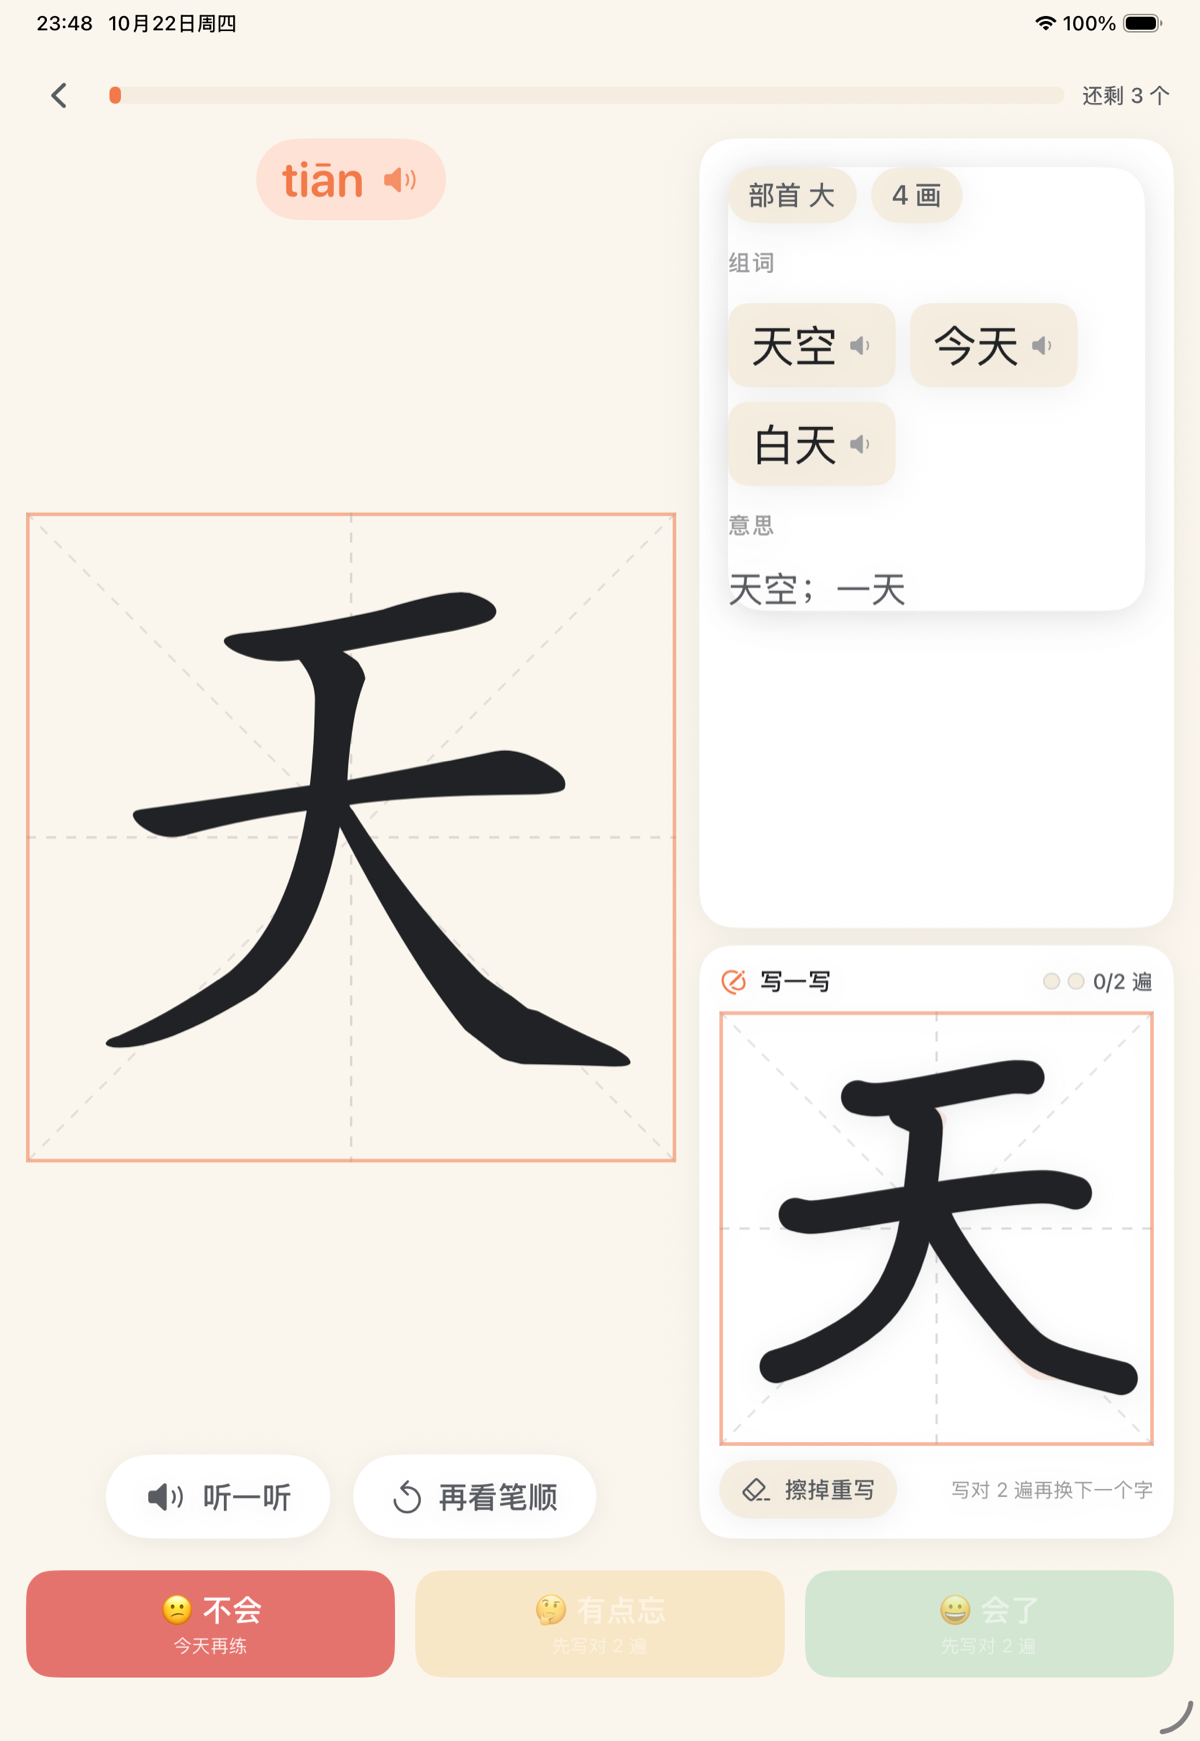
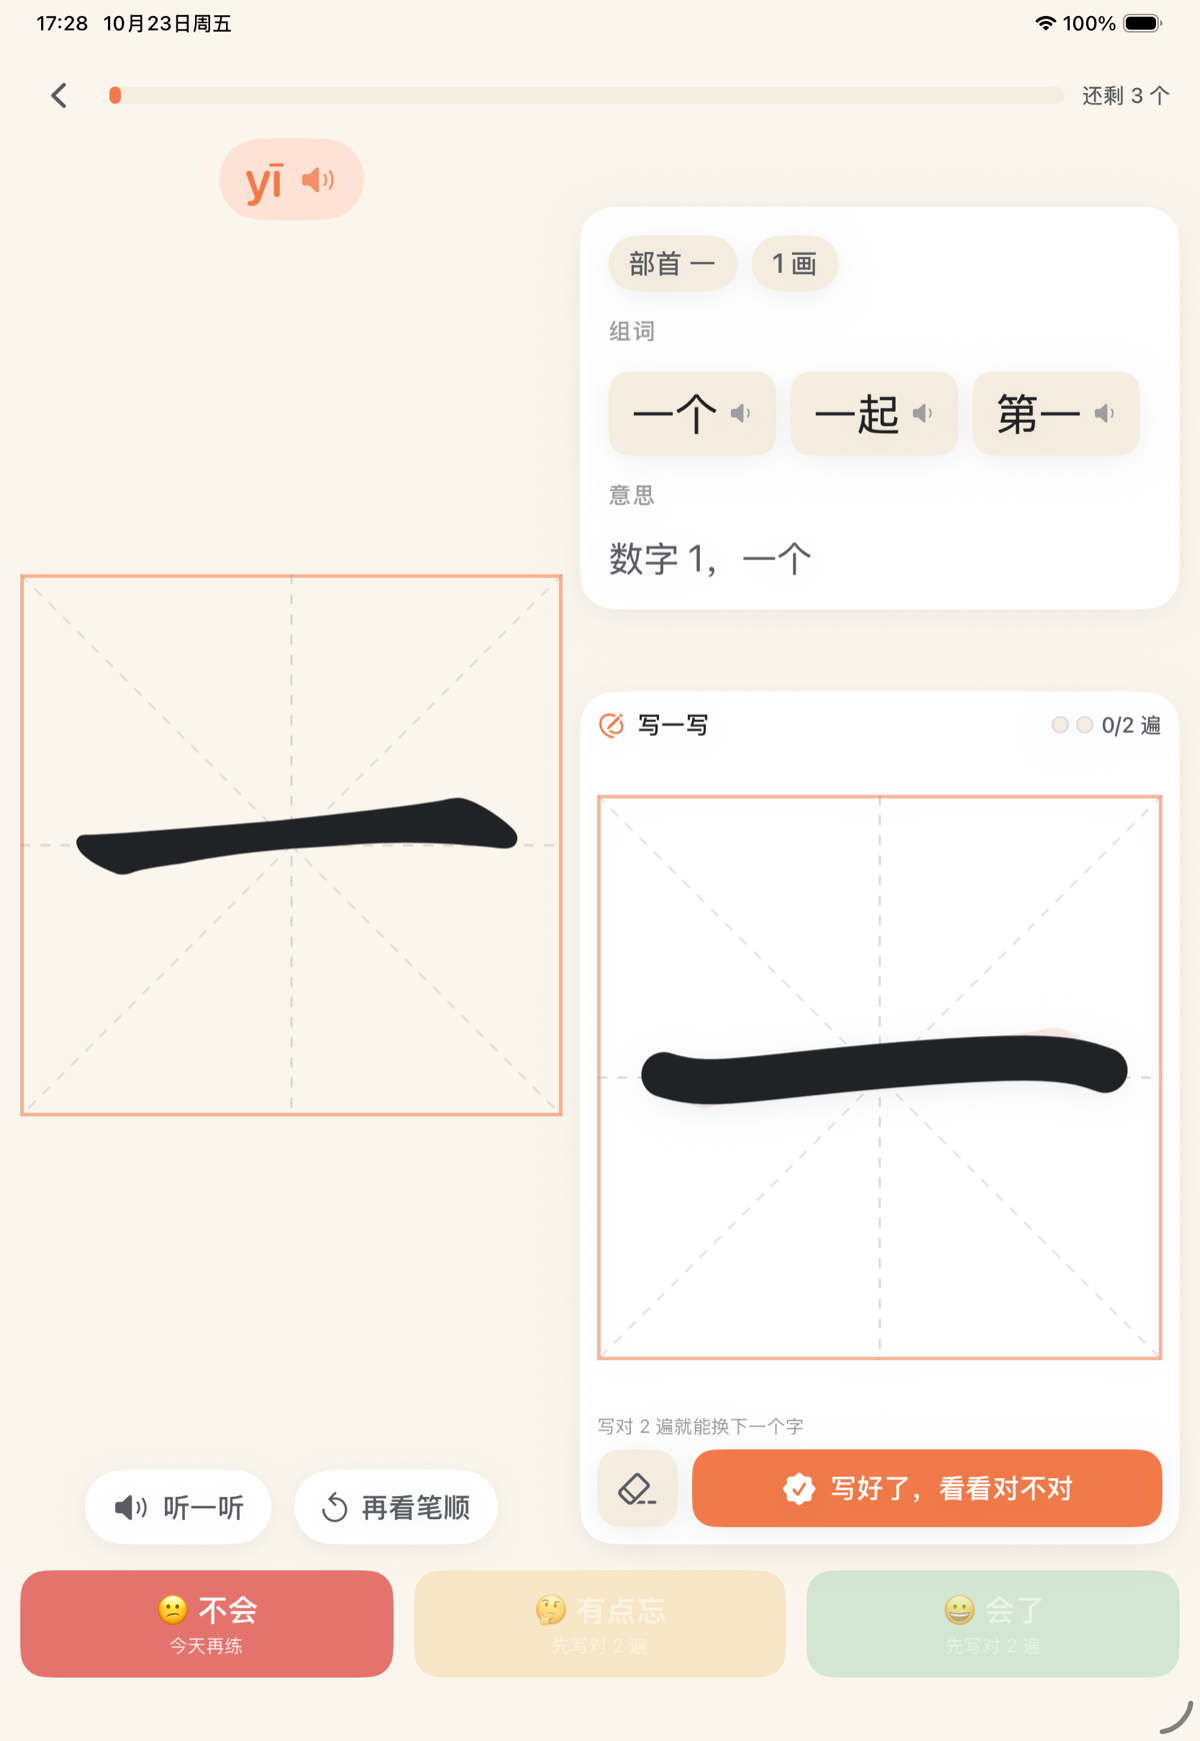
release: HanziKid-0.9.0(10)-unsigned

diff --git a/HanziKid/Features/Study/HandwritingPad.swift b/HanziKid/Features/Study/HandwritingPad.swift
@@ -22,29 +22,28 @@ struct HandwritingPad: View {
     @State private var clearToken = 0
     @State private var verdict: HandwritingResult?
     @State private var attempts = 0
-    @State private var checkTask: Task<Void, Never>?
     @State private var celebrating = false
+    @State private var toast: String?
     @State private var padSide: CGFloat = 300
 
     private var strokeData: HanziStrokeData { StrokeLibrary.shared.data(for: hanzi) }
     private var isComplete: Bool { required > 0 && done >= required }
+    /// 有没有写出东西（决定「写好了」按钮能不能点）
+    private var hasInk: Bool { !drawing.strokes.isEmpty }
+    private var canCheck: Bool { hasInk && !isLocked && !celebrating }
 
     var body: some View {
-        VStack(alignment: .leading, spacing: 10) {
+        VStack(alignment: .leading, spacing: 8) {
             header
             pad
             footer
         }
-        .padding(14)
-        .background(Theme.card, in: RoundedRectangle(cornerRadius: 22, style: .continuous))
-        .shadow(color: Theme.shadow, radius: 10, y: 3)
+        .padding(12)
+        .background(Theme.card, in: RoundedRectangle(cornerRadius: 24, style: .continuous))
+        .shadow(color: Theme.shadow, radius: 12, y: 4)
         .onChange(of: hanzi) { _ in
             reset()
         }
-        .onChange(of: isLocked) { locked in
-            if locked { cancelPending() }
-        }
-        .onDisappear { checkTask?.cancel() }
         .task(id: TaskKey(hanzi: hanzi, locked: isLocked)) {
             await runDemoInkIfNeeded()
         }
@@ -108,8 +107,8 @@ struct HandwritingPad: View {
 
                 if celebrating {
                     celebrateOverlay
-                } else if let verdict, !verdict.isPass, attempts > 0 {
-                    retryHint(verdict)
+                } else if let toast {
+                    hintBanner(toast)
                 }
             }
             .frame(width: side, height: side)
@@ -118,7 +117,7 @@ struct HandwritingPad: View {
             .onChange(of: side) { newSide in padSide = newSide }
         }
         .aspectRatio(1, contentMode: .fit)
-        .frame(maxWidth: .infinity)
+        .frame(maxWidth: .infinity, maxHeight: .infinity)
     }
 
     private var lockedOverlay: some View {
@@ -155,19 +154,20 @@ struct HandwritingPad: View {
         .allowsHitTesting(false)
     }
 
-    private func retryHint(_ result: HandwritingResult) -> some View {
+    /// 判定没通过时的提示（写在板子下方，不挡笔迹）
+    private func hintBanner(_ text: String) -> some View {
         VStack {
             Spacer()
             HStack(spacing: 8) {
                 Image(systemName: "arrow.uturn.left.circle.fill")
-                Text(result.cover < 0.5 ? "笔画还没写全，再写一次" : "和范字不太像，再写一次")
+                Text(text)
             }
-            .font(.system(size: 16, weight: .medium))
+            .font(.system(size: 17, weight: .medium))
             .foregroundStyle(.white)
-            .padding(.horizontal, 14)
-            .padding(.vertical, 9)
-            .background(Theme.again.opacity(0.92), in: Capsule())
-            .padding(.bottom, 10)
+            .padding(.horizontal, 16)
+            .padding(.vertical, 10)
+            .background(Theme.again.opacity(0.94), in: Capsule())
+            .padding(.bottom, 12)
         }
         .allowsHitTesting(false)
     }
@@ -175,62 +175,66 @@ struct HandwritingPad: View {
     // MARK: 底部按钮 + 提示
 
     private var footer: some View {
-        HStack(spacing: 10) {
-            Button {
-                clear()
-            } label: {
-                Label("擦掉重写", systemImage: "eraser.line.dashed")
-                    .font(.system(size: 16, weight: .medium))
-                    .foregroundStyle(Theme.inkSoft)
-                    .padding(.horizontal, 14)
-                    .padding(.vertical, 9)
-                    .background(Theme.paperDeep, in: Capsule())
-            }
-            .buttonStyle(.plain)
-            .disabled(isLocked || celebrating)
-
-            Spacer(minLength: 4)
-
+        VStack(spacing: 8) {
             if required > 0 {
-                Text(isComplete ? "可以换下一个字了" : "写对 \(max(0, required - done)) 遍再换下一个字")
-                    .font(.system(size: 14))
-                    .lineLimit(1)
-                    .minimumScaleFactor(0.8)
+                Text(isComplete ? "这个字写好啦，可以换下一个" : "写对 \(max(0, required - done)) 遍就能换下一个字")
+                    .font(.system(size: 13))
                     .foregroundStyle(isComplete ? Theme.good : Theme.inkFaint)
-            } else {
-                Text("写对了会打勾")
-                    .font(.system(size: 14))
-                    .foregroundStyle(Theme.inkFaint)
+                    .frame(maxWidth: .infinity, alignment: .leading)
+            }
+
+            HStack(spacing: 10) {
+                Button {
+                    clear()
+                } label: {
+                    Image(systemName: "eraser.line.dashed")
+                        .font(.system(size: 22, weight: .medium))
+                        .foregroundStyle(Theme.inkSoft)
+                        .frame(width: 56, height: 54)
+                        .background(Theme.paperDeep, in: RoundedRectangle(cornerRadius: 16, style: .continuous))
+                }
+                .buttonStyle(.plain)
+                .disabled(isLocked || celebrating)
+                .accessibilityLabel("擦掉重写")
+
+                Button {
+                    check()
+                } label: {
+                    HStack(spacing: 8) {
+                        Image(systemName: canCheck ? "checkmark.seal.fill" : "hand.draw.fill")
+                            .font(.system(size: 20, weight: .semibold))
+                        Text(canCheck ? "写好了，看看对不对" : "先写，再点这里")
+                            .font(.system(size: 19, weight: .semibold))
+                    }
+                    .foregroundStyle(.white)
+                    .frame(maxWidth: .infinity)
+                    .frame(height: 54)
+                    .background(canCheck ? Theme.accent : Theme.inkFaint.opacity(0.4),
+                                in: RoundedRectangle(cornerRadius: 16, style: .continuous))
+                }
+                .buttonStyle(.plain)
+                .disabled(!canCheck)
             }
         }
     }
 
     // MARK: 识别
 
+    /// 笔迹变化只记录，不自动判定 —— 必须由小朋友点「写好了」才认
     private func handleDrawingChanged(_ newDrawing: PKDrawing) {
         drawing = newDrawing
         guard !isLocked, !celebrating else { return }
-        verdict = nil
-        scheduleCheck()
+        if verdict != nil { verdict = nil }
     }
 
-    private func scheduleCheck() {
-        checkTask?.cancel()
-        checkTask = Task { @MainActor in
-            // 停笔 0.9 秒再判，避免孩子一笔一笔写的过程中乱判
-            try? await Task.sleep(nanoseconds: 900_000_000)
-            guard !Task.isCancelled else { return }
-            evaluate()
-        }
-    }
-
-    private func cancelPending() {
-        checkTask?.cancel()
-        checkTask = nil
+    /// 「写好了」按钮
+    private func check() {
+        guard canCheck else { return }
+        evaluate()
     }
 
     private func evaluate() {
-        guard !isLocked, !celebrating else { return }
+        guard canCheck else { return }
         let sample = makeSample()
         // 至少要有两笔中的一个有效笔画才判定（单笔画字如「一」点数本来就不多）
         guard sample.strokes.contains(where: { $0.count >= 2 }) else { return }
@@ -249,6 +253,11 @@ struct HandwritingPad: View {
             pass(praise: true)
         } else {
             UINotificationFeedbackGenerator().notificationOccurred(.warning)
+            if result.cover < 0.5 {
+                toast = "笔画还没写全，再补几笔"
+            } else {
+                toast = "和范字不太像，擦掉重写一次"
+            }
         }
     }
 
@@ -285,8 +294,8 @@ struct HandwritingPad: View {
     }
 
     private func clear() {
-        cancelPending()
         verdict = nil
+        toast = nil
         drawing = PKDrawing()
         clearToken += 1
     }
@@ -332,7 +341,9 @@ struct HandwritingPad: View {
                 pkStrokes.append(PKStroke(ink: PKInk(.pen, color: UIColor(Theme.ink)), path: path))
             }
             handleDrawingChanged(PKDrawing(strokes: pkStrokes))
-            try? await Task.sleep(nanoseconds: 2_600_000_000)
+            try? await Task.sleep(nanoseconds: 1_400_000_000)
+            check()      // 手动判定的流程也一起验证
+            try? await Task.sleep(nanoseconds: 2_400_000_000)
             guard !Task.isCancelled else { return }
         }
     }

diff --git a/HanziKid/Features/Study/StudyView.swift b/HanziKid/Features/Study/StudyView.swift
@@ -39,25 +39,28 @@ struct StudyView: View {
                         // 左：字形（米字格 + 笔顺）；右：字形信息 + 手写区（右下角）
                         // 横屏右栏宽一点，竖屏窄一点，结构一致
                         let isWide = geo.size.width > 1000
-                        let rightWidth = min(isWide ? 440 : 330, geo.size.width * 0.46)
+                        // 右栏：手写区占大头，组词/释义只留上面一条（内部可滚动）
+                        let rightWidth = min(isWide ? 560 : 420, geo.size.width * (isWide ? 0.5 : 0.5))
+                        let infoMaxHeight = max(130, geo.size.height * (isWide ? 0.30 : 0.34))
                         VStack(spacing: 0) {
-                            HStack(alignment: .top, spacing: isWide ? 28 : 16) {
+                            HStack(alignment: .top, spacing: isWide ? 22 : 12) {
                                 characterPanel(card: card)
                                     .frame(maxWidth: .infinity, maxHeight: .infinity)
 
-                                VStack(spacing: 12) {
+                                VStack(spacing: 10) {
                                     infoPanel(card: card)
+                                        .frame(maxHeight: infoMaxHeight)
                                     handwritingPanel(card: card)
+                                        .frame(maxHeight: .infinity)
                                 }
                                 .frame(width: rightWidth)
-                                .frame(maxHeight: .infinity)
                             }
                             .frame(maxHeight: .infinity)
 
-                            Spacer(minLength: 14)
+                            Spacer(minLength: 10)
                             gradeBar(item: item)
                         }
-                        .padding(.horizontal, isWide ? 32 : 18)
+                        .padding(.horizontal, isWide ? 28 : 14)
                         .padding(.top, 8)
                         .padding(.bottom, 24)
                     }
@@ -228,15 +231,17 @@ struct StudyView: View {
 
     private func smallAction(title: String, icon: String, action: @escaping () -> Void) -> some View {
         Button(action: action) {
-            HStack(spacing: 10) {
+            HStack(spacing: 8) {
                 Image(systemName: icon)
-                    .font(.system(size: 22))
+                    .font(.system(size: 20))
                 Text(title)
-                    .font(.system(size: 22, weight: .medium))
+                    .font(.system(size: 20, weight: .medium))
+                    .lineLimit(1)
+                    .minimumScaleFactor(0.75)
             }
             .foregroundStyle(Theme.inkSoft)
-            .padding(.horizontal, 26)
-            .padding(.vertical, 16)
+            .padding(.horizontal, 18)
+            .padding(.vertical, 14)
             .background(Theme.card, in: Capsule())
             .shadow(color: Theme.shadow, radius: 8, y: 3)
         }
@@ -248,19 +253,29 @@ struct StudyView: View {
     @ViewBuilder
     private func infoPanel(card: CharacterCard, scrollable: Bool = true) -> some View {
         if scrollable {
-            // 卡片铺满右栏（内容多时内部滚动），下方留给手写区
-            ScrollView {
-                infoContent(card: card, cardStyle: false)
-                    .padding(20)
+            // 内容不多时卡片贴着内容（不留大块空白），内容多时内部滚动
+            ViewThatFits(in: .vertical) {
+                infoBody(card: card).kidCard()
+                ScrollView {
+                    infoBody(card: card).padding(20)
+                }
+                .kidCard(padding: 0)
             }
-            .frame(maxWidth: .infinity, maxHeight: .infinity, alignment: .top)
-            .kidCard(padding: 0)
         } else {
             infoContent(card: card)
         }
     }
 
+    @ViewBuilder
     private func infoContent(card: CharacterCard, cardStyle: Bool = true) -> some View {
+        if cardStyle {
+            infoBody(card: card).kidCard()
+        } else {
+            infoBody(card: card)
+        }
+    }
+
+    private func infoBody(card: CharacterCard) -> some View {
         VStack(alignment: .leading, spacing: 18) {
             HStack(spacing: 10) {
                 chip("部首 \(card.radical)")
@@ -303,7 +318,6 @@ struct StudyView: View {
             }
         }
         .frame(maxWidth: .infinity, alignment: .leading)
-        .kidCard(padding: cardStyle ? 20 : 0)
     }
 
     private func wordButton(_ word: String) -> some View {

diff --git a/README.md b/README.md
@@ -204,8 +204,13 @@ python3 Tools/fetch_audio.py --only-chars
 
 ## 手写练习（0.6.0 起）
 
-学习页右下角是手写区：跟读读完，孩子照着淡色范字（描红）把这个字写出来，**系统认对了才算写了一遍**，
-攒够家长设置的遍数，「😀 会了 / 🤔 有点忘」才会亮起来——也就是不写对就换不了下一个字。
+学习页右下角是手写区（右栏加宽、组词/释义压到上面一条，手写格子约 400pt，手指直接写也够大）：
+跟读读完，孩子照着淡色范字（描红）把这个字写出来，**写完自己点「✅ 写好了，看看对不对」才判定**，
+认对了才算写了一遍，攒够家长设置的遍数，「😀 会了 / 🤔 有点忘」才会亮起来——也就是不写对就换不了下一个字。
+
+- 判定是**手动触发**的（不会停笔自动判），小朋友写完点按钮，系统才认这一遍
+- 没通过会提示「笔画还没写全，再补几笔」或「和范字不太像，擦掉重写一次」，可以补两笔再点一次
+- 「擦掉」按钮在判定按钮左边，随时能重写
 
 设置项（家长设置 → 每个孩子）：
 
@@ -226,7 +231,7 @@ python3 Tools/fetch_audio.py --only-chars
    - `cover`：范字的点有多少落在笔迹附近 → 笔画写全了没有（下限 0.68）
    - `stray`：笔迹的点有多少落在范字附近 → 有没有写成别的字 / 写飞（下限 0.78）
 4. 先按包围盒平移对齐、再按包围盒等比缩放对齐各试一次，取分数最高的那个（补偿"写偏了""写小了"）
-5. 两个分数都过线才算写对；停笔 0.9 秒后才判，避免孩子一笔一笔写的过程中乱判
+5. 两个分数都过线才算写对；判定由「写好了」按钮触发（不会边走边判）
 
 字库外的自造字（拍照录入、没有笔顺数据）退回「楷体字模栅格 + 膨胀容差」的粗匹配；连字模都渲染不出来时不做拦截。
 

diff --git a/CHANGELOG.md b/CHANGELOG.md
@@ -6,6 +6,16 @@
 > 0.1.0 ~ 0.3.0 是开发过程中的中间构建，当时都覆盖安装、没有单独发版，
 > 记录在此仅用于说明功能的来龙去脉。
 
+## [0.9.0] - 2026-10-23  (build 10)
+
+- **手写区放大**：右栏加宽、上面的组词/释义压缩成一条（内容多时内部滚动），
+  手写格子从约 300pt 放大到约 400pt（横屏更大），手指直接写也不挤
+- **判定改成手动**：不再停笔后自动判定，写完由小朋友点「✅ 写好了，看看对不对」才识别；
+  认对了打勾计数，认错了提示「笔画还没写全，再补几笔 / 和范字不太像，擦掉重写一次」，可以改完再点
+- 修掉学习页右侧「两层白卡片」的嵌套（组词/释义那张卡片外面又套了一层卡片）
+- 组词/释义卡片高度按内容自适应，不再留一大块空白；卡片圆角与阴影和手写卡统一
+- 左栏「再读一遍 / 再看笔顺」在窄栏里不再折行
+
 ## [0.8.0] - 2026-10-23  (build 9)
 
 - **新增「字库总览」**（字库页右上角「总览」）：一个字一格，直接看到每个字现在到哪一步
